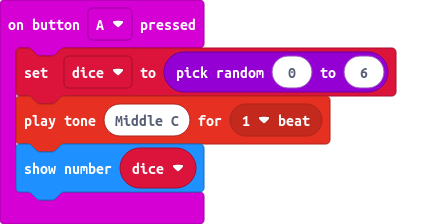
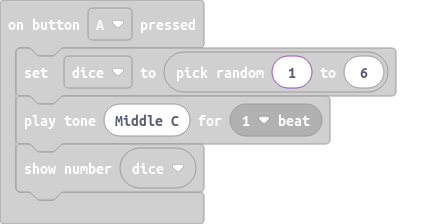
Update main.blocks, main.ts

diff --git a/main.ts b/main.ts
@@ -1,6 +1,6 @@
 let dice = 0
 input.onButtonPressed(Button.A, function () {
-    dice = randint(0, 6)
+    dice = randint(1, 6)
     music.playTone(262, music.beat(BeatFraction.Whole))
     basic.showNumber(dice)
 })
